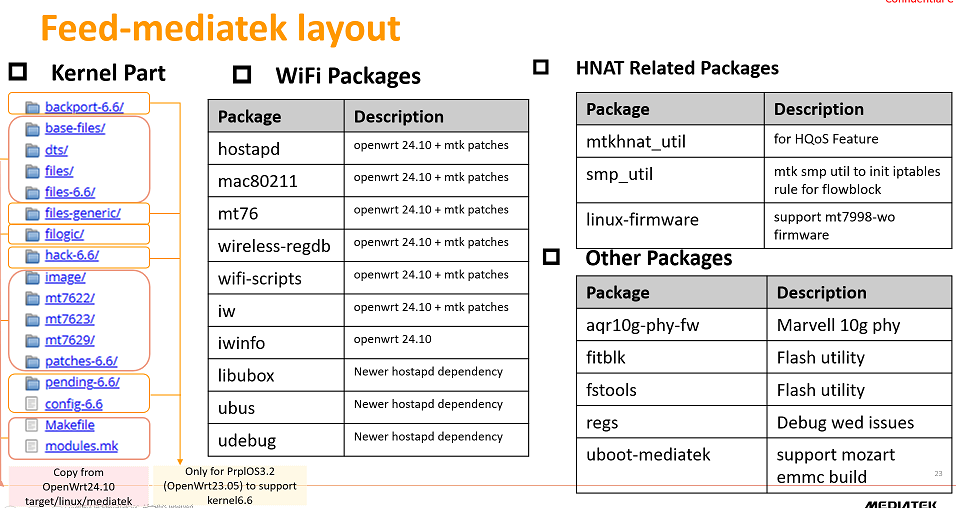
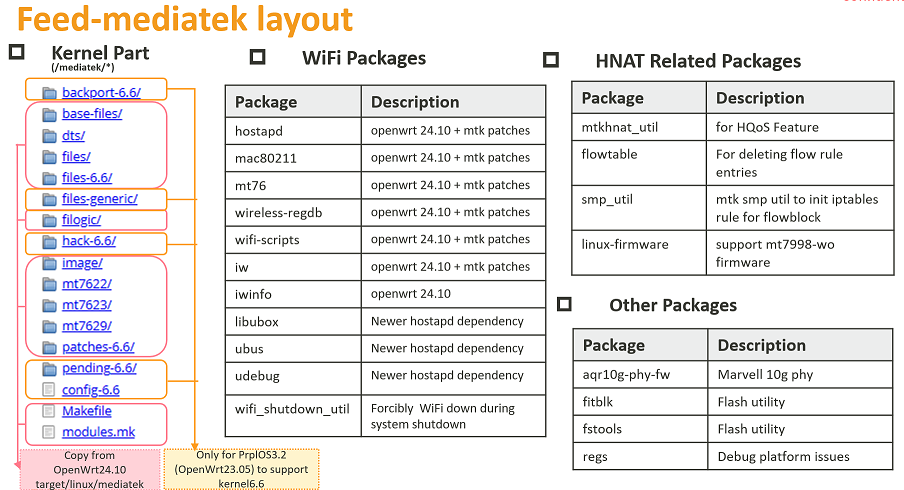
[Prpl][feed-mediatek][Update feed_mtk layout and mt76 critical patch]
[Description]
Update feed_mtk layout and mt76 critical patch

[Release-log]
N/A

diff --git a/README.md b/README.md
@@ -36,8 +36,7 @@ for patch in prplos-feed-mediatek/autobuild/prplos/patches/*.patch; do patch -p1
 ```
 
 #### 3. Update the mtk_filogic.yml File
-To ensure that the configuration file uses the latest revision, execute the following command:
-
+Select the fixed revision or just to follow the latest revision, execute the following command:
 ```
 sed -i "s/revision: .*/revision: $(git ls-remote https://git01.mediatek.com/filogic/prolos/prplos-feed-mediatek refs/heads/master | awk '{print $1}')/" ./profiles/mtk_filogic.yml
 ```